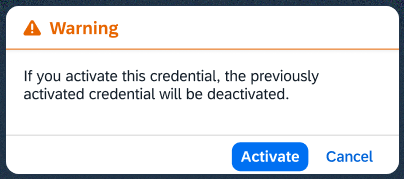
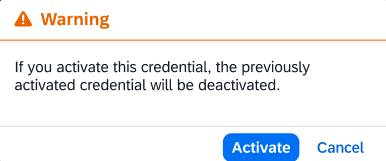
Refine deck: simpler cover, fewer em-dashes, clean popovers, add creative events slide

Changed region(s): [[0.0, 0.0, 1.0, 1.0]]

diff --git a/presentation.html b/presentation.html
@@ -33,23 +33,21 @@
     <!-- 1 · COVER -->
     <section class="slide slide--glow is-active" aria-label="Cover">
       <div class="slide__inner cover">
-        <p class="eyebrow anim" style="--i:0">✦ UX Case Studies · 2026</p>
-        <h1 class="s-title s-title--xl anim" style="--i:1">Designing <span class="mark">clarity</span> into complex systems</h1>
-        <p class="s-lede anim" style="--i:2">Two case studies on turning tangled, high-stakes workflows into guided, trustworthy experiences.</p>
-        <div class="cover__meta anim" style="--i:3">
-          <span>Bruna Demichei Nobre</span>
-          <span>UX Designer</span>
+        <p class="eyebrow anim" style="--i:0">✦ Bruna Demichei Nobre · UX Designer</p>
+        <h1 class="s-title s-title--xl anim" style="--i:1">Use Cases</h1>
+        <div class="cover__meta anim" style="--i:2">
+          <span>Two UX case studies</span>
           <span>SAP SuccessFactors Payroll · USA</span>
         </div>
         <div class="cover__cases">
-          <div class="cover__case anim" style="--i:4">
+          <div class="cover__case anim" style="--i:3">
             <span class="cover__case-num">01</span>
             <span>
               <span class="cover__case-t">US Setup Landscape with BSI</span><br>
               <span class="cover__case-s">SAP SuccessFactors Payroll · Enterprise UX</span>
             </span>
           </div>
-          <div class="cover__case anim" style="--i:5">
+          <div class="cover__case anim" style="--i:4">
             <span class="cover__case-num">02</span>
             <span>
               <span class="cover__case-t">Minha Jornada Platform</span><br>
@@ -71,12 +69,12 @@
           <div class="tile anim" style="--i:2">
             <span class="tile__eyebrow">Case 01 · Enterprise</span>
             <h3>US Setup Landscape with BSI</h3>
-            <p>A compliance "hard gate" in SAP SuccessFactors Payroll — redesigned from zero to one so first-time setup feels discoverable and trustworthy.</p>
+            <p>A compliance "hard gate" in SAP SuccessFactors Payroll, redesigned from zero to one so first-time setup feels discoverable and trustworthy.</p>
           </div>
           <div class="tile anim" style="--i:3">
             <span class="tile__eyebrow">Case 02 · Product</span>
             <h3>Minha Jornada Platform</h3>
-            <p>A fragmented AIESEC exchange journey turned into one guided hub for participants and managers — designed and prototyped with AI.</p>
+            <p>A fragmented AIESEC exchange journey turned into one guided hub for participants and managers, designed and prototyped with AI.</p>
           </div>
         </div>
         <p class="s-note anim" style="--i:4;margin-top:1.4rem">Use the arrow keys (← →) or the controls below to move through the deck.</p>
@@ -103,12 +101,12 @@
           <div class="tile anim" style="--i:2">
             <div class="tile__icon">▣</div>
             <h3>The product</h3>
-            <p>SAP SuccessFactors Payroll (USA) — a cloud platform for low-to-mid organizations, built from zero. US payroll is complex and requirement-heavy.</p>
+            <p>SAP SuccessFactors Payroll (USA): a cloud platform for low-to-mid organizations, built from zero. US payroll is complex and requirement-heavy.</p>
           </div>
           <div class="tile anim" style="--i:3">
             <div class="tile__icon">◇</div>
             <h3>The team</h3>
-            <p>SFPAY, a Scrum team of three squads (Dana, Denali, Logan). In 2026 we entered an acceleration phase — scopes and deadlines far less negotiable: deliver more with less effort.</p>
+            <p>SFPAY, a Scrum team of three squads (Dana, Denali, Logan). In 2026 we entered an acceleration phase, where scopes and deadlines became far less negotiable: deliver more with less effort.</p>
           </div>
           <div class="tile anim" style="--i:4">
             <div class="tile__icon">✎</div>
@@ -126,7 +124,7 @@
           <div class="split__text">
             <p class="kicker anim" style="--i:0">Case 01 · The case</p>
             <h2 class="s-title anim" style="--i:1">A gate before anything else</h2>
-            <p class="s-lede anim" style="--i:2">Before performing any activity — even hiring — a customer must register their BSI credentials. Payroll depends on BSI for tax calculation, jurisdiction determination and forms processing, so SFPAY simply cannot be used until this setup is complete. The settings are metadata-driven, so the relevant data is already pre-configured at first login.</p>
+            <p class="s-lede anim" style="--i:2">Before performing any activity, even hiring, a customer must register their BSI credentials. Payroll depends on BSI for tax calculation, jurisdiction determination and forms processing, so SFPAY simply cannot be used until this setup is complete. The settings are metadata-driven, so the relevant data is already pre-configured at first login.</p>
           </div>
           <div class="split__media">
             <div class="tile anim" style="--i:3">
@@ -148,7 +146,7 @@
       <div class="slide__inner slide__inner--wide">
         <div class="head">
           <p class="kicker anim" style="--i:0">Case 01 · Explore</p>
-          <h2 class="s-title anim" style="--i:1">First exploration — low-fidelity</h2>
+          <h2 class="s-title anim" style="--i:1">First exploration: low-fidelity</h2>
           <p class="s-lede anim" style="--i:2">A multi-step wizard: enter credentials, test them, and review everything in one list.</p>
         </div>
         <div class="shots shots--3">
@@ -177,7 +175,7 @@
         <div class="head">
           <p class="kicker anim" style="--i:0">Case 01 · Refine</p>
           <h2 class="s-title anim" style="--i:1">First high-fidelity attempt</h2>
-          <p class="s-lede anim" style="--i:2">A guided 4-step creation wizard plus a managed list with status and an activation log — fully in SAP Fiori.</p>
+          <p class="s-lede anim" style="--i:2">A guided 4-step creation wizard plus a managed list with status and an activation log, fully in SAP Fiori.</p>
         </div>
         <div class="shots shots--2">
           <figure class="shot anim" style="--i:3">
@@ -204,12 +202,12 @@
         </div>
         <div class="pivot">
           <div class="pivot__col anim" style="--i:3">
-            <h3>From — create in-app</h3>
-            <p>Rich, multi-step screens to create, test and manage credentials directly inside SFPAY. Costly and complex on the backend — and too heavy for a user's very first step.</p>
+            <h3>From: create in-app</h3>
+            <p>Rich, multi-step screens to create, test and manage credentials directly inside SFPAY. Costly and complex on the backend, and too heavy for a user's very first step.</p>
           </div>
           <div class="pivot__arrow anim" style="--i:4">→</div>
           <div class="pivot__col pivot__col--to anim" style="--i:5">
-            <h3>To — activate, don't create</h3>
+            <h3>To: activate, don't create</h3>
             <p>Credentials are registered through a form <em>outside</em> the system. When the user logs in to SFPAY, they only need to <strong>activate</strong> the credential. Simpler backend, simpler first step.</p>
           </div>
         </div>
@@ -222,7 +220,7 @@
         <div class="head">
           <p class="kicker anim" style="--i:0">Case 01 · Redesign</p>
           <h2 class="s-title anim" style="--i:1">One clear place to configure</h2>
-          <p class="s-lede anim" style="--i:2">A single "Configure Communication with Third-Party Systems" entry lists each system with an explicit status — so first-time users always know where to go and what's pending.</p>
+          <p class="s-lede anim" style="--i:2">A single "Configure Communication with Third-Party Systems" entry lists each system with an explicit status, so first-time users always know where to go and what's pending.</p>
         </div>
         <div class="shots shots--2">
           <figure class="shot anim" style="--i:3">
@@ -250,7 +248,7 @@
           <li class="anim" style="--i:2">
             <span class="flow__status st-warn">Not Configured</span>
             <h3>The gate is open</h3>
-            <p>Nothing is activated yet — payroll stays blocked and the user knows exactly why.</p>
+            <p>Nothing is activated yet, so payroll stays blocked and the user knows exactly why.</p>
           </li>
           <li class="anim" style="--i:3">
             <span class="flow__status st-mid">Maintained</span>
@@ -260,19 +258,19 @@
           <li class="anim" style="--i:4">
             <span class="flow__status st-ok">Configured</span>
             <h3>Live &amp; unblocked</h3>
-            <p>An active credential is live — payroll is unblocked and ready to use.</p>
+            <p>An active credential is live, so payroll is unblocked and ready to use.</p>
           </li>
         </ol>
         <div class="shots shots--2" style="margin-top:1.4rem">
           <figure class="shot anim" style="--i:5">
             <div class="shot__bar"><i></i><i></i><i></i><span>Status · Maintained</span></div>
             <div class="shot__img"><img src="assets/pitch/c1-new-maintained.png" alt="TaxFactory status Maintained, credential saved"></div>
-            <figcaption class="shot__cap">"Credential saved" — explicit confirmation.</figcaption>
+            <figcaption class="shot__cap">"Credential saved": explicit confirmation.</figcaption>
           </figure>
           <figure class="shot anim" style="--i:6">
             <div class="shot__bar"><i></i><i></i><i></i><span>Status · Configured</span></div>
             <div class="shot__img"><img src="assets/pitch/c1-new-configured.png" alt="TaxFactory status Configured, credential activated"></div>
-            <figcaption class="shot__cap">"Credential activated" — the toggle is on.</figcaption>
+            <figcaption class="shot__cap">"Credential activated": the toggle is on.</figcaption>
           </figure>
         </div>
       </div>
@@ -284,18 +282,16 @@
         <div class="head">
           <p class="kicker anim" style="--i:0">Case 01 · Trust &amp; audit</p>
           <h2 class="s-title anim" style="--i:1">Safe changes, full traceability</h2>
-          <p class="s-lede anim" style="--i:2">A confirmation guards activation — switching one credential on deactivates the previous — and an activation log records every version and timestamp.</p>
+          <p class="s-lede anim" style="--i:2">A confirmation guards activation: switching one credential on deactivates the previous, and an activation log records every version and timestamp.</p>
         </div>
         <div class="shots shots--2">
-          <figure class="shot anim" style="--i:3">
-            <div class="shot__bar"><i></i><i></i><i></i><span>Confirmation</span></div>
+          <figure class="shot shot--dialog anim" style="--i:3">
             <div class="shot__img"><img src="assets/pitch/c1-new-warning.png" alt="Warning: activating this credential deactivates the previous one"></div>
-            <figcaption class="shot__cap">No silent changes — the user confirms.</figcaption>
+            <figcaption class="shot__cap">Confirmation: no silent changes, the user confirms.</figcaption>
           </figure>
-          <figure class="shot anim" style="--i:4">
-            <div class="shot__bar"><i></i><i></i><i></i><span>Activation Log</span></div>
+          <figure class="shot shot--dialog anim" style="--i:4">
             <div class="shot__img"><img src="assets/pitch/c1-new-log.png" alt="Activation log with versions and timestamps"></div>
-            <figcaption class="shot__cap">Every activation is versioned and timestamped.</figcaption>
+            <figcaption class="shot__cap">Activation log: every activation is versioned and timestamped.</figcaption>
           </figure>
         </div>
       </div>
@@ -307,7 +303,7 @@
         <div class="head">
           <p class="kicker anim" style="--i:0">Case 01 · Outcome</p>
           <h2 class="s-title anim" style="--i:1">A guided, discoverable setup</h2>
-          <p class="s-lede anim" style="--i:2">First-time logins are unblocked and administrators feel confident at every step — all consistent with existing SuccessFactors patterns.</p>
+          <p class="s-lede anim" style="--i:2">First-time logins are unblocked and administrators feel confident at every step, all consistent with existing SuccessFactors patterns.</p>
         </div>
         <div class="cards">
           <div class="tile anim" style="--i:3">
@@ -346,7 +342,7 @@
           <div class="tile anim" style="--i:3">
             <div class="tile__icon">⇄</div>
             <h3>Cross-functional</h3>
-            <p>It spanned many stakeholders — including partners outside SAP — and sharpened how I collaborate with developers.</p>
+            <p>It spanned many stakeholders, including partners outside SAP, and sharpened how I collaborate with developers.</p>
           </div>
           <div class="tile anim" style="--i:4">
             <div class="tile__icon">✓</div>
@@ -374,7 +370,7 @@
           <div class="split__text">
             <p class="kicker anim" style="--i:0">Case 02 · Overview</p>
             <h2 class="s-title anim" style="--i:1">A journey with no map</h2>
-            <p class="s-lede anim" style="--i:2">Minha Jornada helps exchange participants (EPs) and managers navigate the full AIESEC exchange journey in Brazil — a process that was fragmented and hard to follow.</p>
+            <p class="s-lede anim" style="--i:2">Minha Jornada helps exchange participants (EPs) and managers navigate the full AIESEC exchange journey in Brazil, a process that was fragmented and hard to follow.</p>
           </div>
           <div class="split__media">
             <div class="tile anim" style="--i:3">
@@ -414,7 +410,7 @@
             <p class="postit__who">Marina, 20 · <span class="postit__role">EP, Global Volunteer</span></p>
           </div>
           <div class="postit postit--g anim" style="--i:6">
-            <p>"I felt alone. There was no sense of progress — no 'you're 60% there'."</p>
+            <p>"I felt alone. There was no sense of progress, no 'you're 60% there'."</p>
             <p class="postit__who">Bruno, 22 · <span class="postit__role">EP, Global Talent</span></p>
           </div>
           <div class="postit postit--o anim" style="--i:7">
@@ -438,7 +434,7 @@
         </div>
         <div class="insights">
           <div class="insight anim" style="--i:2"><span class="insight__n">01</span><div><h3>Show me where I am</h3><p>A clear sense of progress and the next step, end to end.</p></div></div>
-          <div class="insight anim" style="--i:3"><span class="insight__n">02</span><div><h3>One source of truth</h3><p>Documents and information in one place — not five.</p></div></div>
+          <div class="insight anim" style="--i:3"><span class="insight__n">02</span><div><h3>One source of truth</h3><p>Documents and information in one place, not five.</p></div></div>
           <div class="insight anim" style="--i:4"><span class="insight__n">03</span><div><h3>Warn me in time</h3><p>Proactive alerts before deadlines, not after they pass.</p></div></div>
           <div class="insight anim" style="--i:5"><span class="insight__n">04</span><div><h3>A cockpit for managers</h3><p>Pipeline, compliance and risk visible at a glance.</p></div></div>
           <div class="insight anim" style="--i:6"><span class="insight__n">05</span><div><h3>Keep me motivated</h3><p>Milestones and recognition to sustain engagement.</p></div></div>
@@ -452,7 +448,7 @@
         <div class="head">
           <p class="kicker anim" style="--i:0">Case 02 · Solution</p>
           <h2 class="s-title anim" style="--i:1">One guided journey hub</h2>
-          <p class="s-lede anim" style="--i:2">Minha Jornada replaces a spreadsheet-driven process with a single platform that adapts to each role — one shared, end-to-end view of the exchange.</p>
+          <p class="s-lede anim" style="--i:2">Minha Jornada replaces a spreadsheet-driven process with a single platform that adapts to each role, giving one shared end-to-end view of the exchange.</p>
         </div>
         <div class="roles">
           <div class="role anim" style="--i:3">
@@ -462,7 +458,7 @@
           </div>
           <div class="role anim" style="--i:4">
             <div class="role__top"><span class="role__ic">📊</span><div><span class="role__eyebrow">Manager CX</span><h3>An operational cockpit</h3></div></div>
-            <p>Track pipeline, compliance and exactly what needs attention — all in one place.</p>
+            <p>Track pipeline, compliance and exactly what needs attention, all in one place.</p>
             <ul class="chips"><li>Full pipeline</li><li>Stage view</li><li>Automatic alerts</li><li>Actions per student</li></ul>
           </div>
         </div>
@@ -483,10 +479,10 @@
             <p class="kicker anim" style="--i:0">Case 02 · Hi-fi</p>
             <h2 class="s-title anim" style="--i:1">The journey hub</h2>
             <ul class="bullets">
-              <li class="anim" style="--i:2"><strong>Clear hero &amp; CTA</strong> — "Your exchange starts before departure."</li>
-              <li class="anim" style="--i:3"><strong>What's on the platform</strong> — journey, educational content, support, documents.</li>
-              <li class="anim" style="--i:4"><strong>Role-based sections</strong> — tailored views for participants and managers.</li>
-              <li class="anim" style="--i:5"><strong>An 11-stage flow</strong> — from registration to completed departure.</li>
+              <li class="anim" style="--i:2"><strong>Clear hero &amp; CTA:</strong> "Your exchange starts before departure."</li>
+              <li class="anim" style="--i:3"><strong>What's on the platform:</strong> journey, educational content, support, documents.</li>
+              <li class="anim" style="--i:4"><strong>Role-based sections:</strong> tailored views for participants and managers.</li>
+              <li class="anim" style="--i:5"><strong>An 11-stage flow:</strong> from registration to completed departure.</li>
             </ul>
           </div>
         </div>
@@ -505,7 +501,7 @@
           <figure class="shot anim" style="--i:3">
             <div class="shot__bar"><i></i><i></i><i></i><span>Step 1 · Select profile</span></div>
             <div class="shot__img"><img src="assets/pitch/c2-role.png" alt="Role selection: participant or manager"></div>
-            <figcaption class="shot__cap">"Who are you in the journey?" — role selection.</figcaption>
+            <figcaption class="shot__cap">"Who are you in the journey?" Role selection.</figcaption>
           </figure>
           <figure class="shot anim" style="--i:4">
             <div class="shot__bar"><i></i><i></i><i></i><span>Step 2 · Sign in</span></div>
@@ -537,19 +533,57 @@
           <div class="tile anim" style="--i:4">
             <div class="tile__icon">✦</div>
             <h3>Built fast with AI</h3>
-            <p>Designed and prototyped end-to-end with AI-assisted tools — IA to hi-fi in days.</p>
+            <p>Designed and prototyped end-to-end with AI-assisted tools, from IA to hi-fi in days.</p>
           </div>
         </div>
         <p class="anim" style="--i:5;margin-top:1.4rem"><span class="badge">✦ 100% AI-assisted design (vibe coding)</span></p>
       </div>
     </section>
 
-    <!-- 22 · CLOSING -->
+    <!-- 22 · CREATIVE EVENTS -->
+    <section class="slide" aria-label="Creative events at SAP Labs Latin America">
+      <div class="slide__inner slide__inner--wide">
+        <div class="head">
+          <p class="kicker anim" style="--i:0">Beyond the screen · SAP Labs Latin America</p>
+          <h2 class="s-title anim" style="--i:1">Fun things I've done at SAP</h2>
+          <p class="s-lede anim" style="--i:2">Outside my day-to-day UX work, I help design internal experiences and events that bring people together.</p>
+        </div>
+        <div class="evts">
+          <figure class="evt anim" style="--i:3">
+            <div class="evt__img"><img src="assets/eoy-team.jpg" alt="Bruna and teammates at the SAP End-of-Year celebration"></div>
+            <figcaption class="evt__body">
+              <span class="evt__cat">Experience design</span>
+              <h3>End-of-Year Party</h3>
+              <p>An immersive "SAP &amp; the Chocolate Factory" theme that sparked curiosity and connection across the office.</p>
+            </figcaption>
+          </figure>
+          <figure class="evt anim" style="--i:4">
+            <div class="evt__img"><img src="assets/devleague.jpg" alt="Crowd at the SAP Labs Latin America Developers League"></div>
+            <figcaption class="evt__body">
+              <span class="evt__cat">Visual content</span>
+              <h3>Developers League</h3>
+              <p>Visual content for an internal tech event that brought together 1,100+ developers and engineers.</p>
+            </figcaption>
+          </figure>
+          <figure class="evt anim" style="--i:5">
+            <div class="evt__img"><img src="assets/innoweeks-stage.jpg" alt="Speaker on stage at SAP Innoweeks"></div>
+            <figcaption class="evt__body">
+              <span class="evt__cat">Design thinking</span>
+              <h3>Innoweeks 2025</h3>
+              <p>Discovery and co-creation sessions with enterprise clients across Latin America.</p>
+            </figcaption>
+          </figure>
+        </div>
+        <p class="s-note anim" style="--i:6;margin-top:1.2rem"><a href="https://www.linkedin.com/posts/dennison-john-ab6b56102_saplabsla-innovation-community-ugcPost-7313632985470148608-ONeY" target="_blank" rel="noopener" style="color:var(--accent);font-weight:700;text-decoration:none">Watch the Developers League video ↗</a></p>
+      </div>
+    </section>
+
+    <!-- 23 · CLOSING -->
     <section class="slide slide--glow" aria-label="Thank you">
       <div class="slide__inner closing">
         <p class="eyebrow anim" style="--i:0;justify-content:center">✦ Thank you</p>
         <h2 class="closing__title anim" style="--i:1">Let's talk</h2>
-        <p class="s-lede anim" style="--i:2;margin-inline:auto;text-align:center">Bruna Demichei Nobre · UX Designer — SAP SuccessFactors Payroll (USA)</p>
+        <p class="s-lede anim" style="--i:2;margin-inline:auto;text-align:center">Bruna Demichei Nobre · UX Designer · SAP SuccessFactors Payroll (USA)</p>
         <div class="closing__actions">
           <a class="btn btn--primary anim" style="--i:3" href="https://www.linkedin.com/in/bruna-demichei-nobre" target="_blank" rel="noopener">LinkedIn ↗</a>
           <a class="btn btn--ghost anim" style="--i:4" href="mailto:brunademichei01@gmail.com">Email me</a>
@@ -564,7 +598,7 @@
   <nav class="deck__nav" aria-label="Slide navigation">
     <button class="nav-arrow" id="prev" aria-label="Previous slide">←</button>
     <div class="dots" id="dots"></div>
-    <span class="counter" id="counter">01 / 22</span>
+    <span class="counter" id="counter">01 / 23</span>
     <button class="nav-arrow" id="next" aria-label="Next slide">→</button>
   </nav>
 

diff --git a/presentation.css b/presentation.css
@@ -284,6 +284,34 @@ body {
 }
 .shot--plain .shot__img { background: transparent; padding: 0; }
 
+/* Dialog / popover screenshots (no browser chrome, clean float) */
+.shot--dialog .shot__bar { display: none; }
+.shot--dialog .shot__img { background: var(--surface); padding: clamp(0.9rem, 2vw, 1.4rem); }
+.shot--dialog .shot__img img { max-height: 40vh; box-shadow: none; }
+
+/* ===== Creative events ===== */
+.evts {
+  display: grid;
+  grid-template-columns: repeat(3, minmax(0, 1fr));
+  gap: 1.1rem;
+  margin-top: 0.4rem;
+}
+.evt {
+  background: var(--surface);
+  border: 1px solid var(--border);
+  border-radius: var(--radius-sm);
+  overflow: hidden;
+  box-shadow: var(--shadow);
+  display: flex;
+  flex-direction: column;
+}
+.evt__img { aspect-ratio: 16 / 11; overflow: hidden; background: var(--bg-alt); }
+.evt__img img { width: 100%; height: 100%; object-fit: cover; }
+.evt__body { padding: 1.1rem 1.2rem 1.3rem; }
+.evt__cat { color: var(--accent); font-size: 0.7rem; font-weight: 800; letter-spacing: 0.08em; text-transform: uppercase; }
+.evt h3 { font-family: var(--font-display); font-weight: 700; font-size: 1.05rem; margin: 0.3rem 0 0.4rem; letter-spacing: -0.01em; }
+.evt p { color: var(--text-soft); font-size: 0.9rem; line-height: 1.5; }
+
 /* ===== Flow (status journey) ===== */
 .flow {
   display: grid;
@@ -609,7 +637,7 @@ body {
 /* ===== Responsive ===== */
 @media (max-width: 820px) {
   .cards, .cards--4, .metrics, .flow, .postits { grid-template-columns: 1fr 1fr; }
-  .cover__cases, .split, .roles, .shots--2, .shots--3, .pivot { grid-template-columns: 1fr; }
+  .cover__cases, .split, .roles, .shots--2, .shots--3, .pivot, .evts { grid-template-columns: 1fr; }
   .pivot__arrow { transform: rotate(90deg); justify-self: center; }
   .flow li:not(:last-child)::after { content: "↓"; top: auto; bottom: -0.85rem; right: 50%; transform: translateX(50%); }
 }
